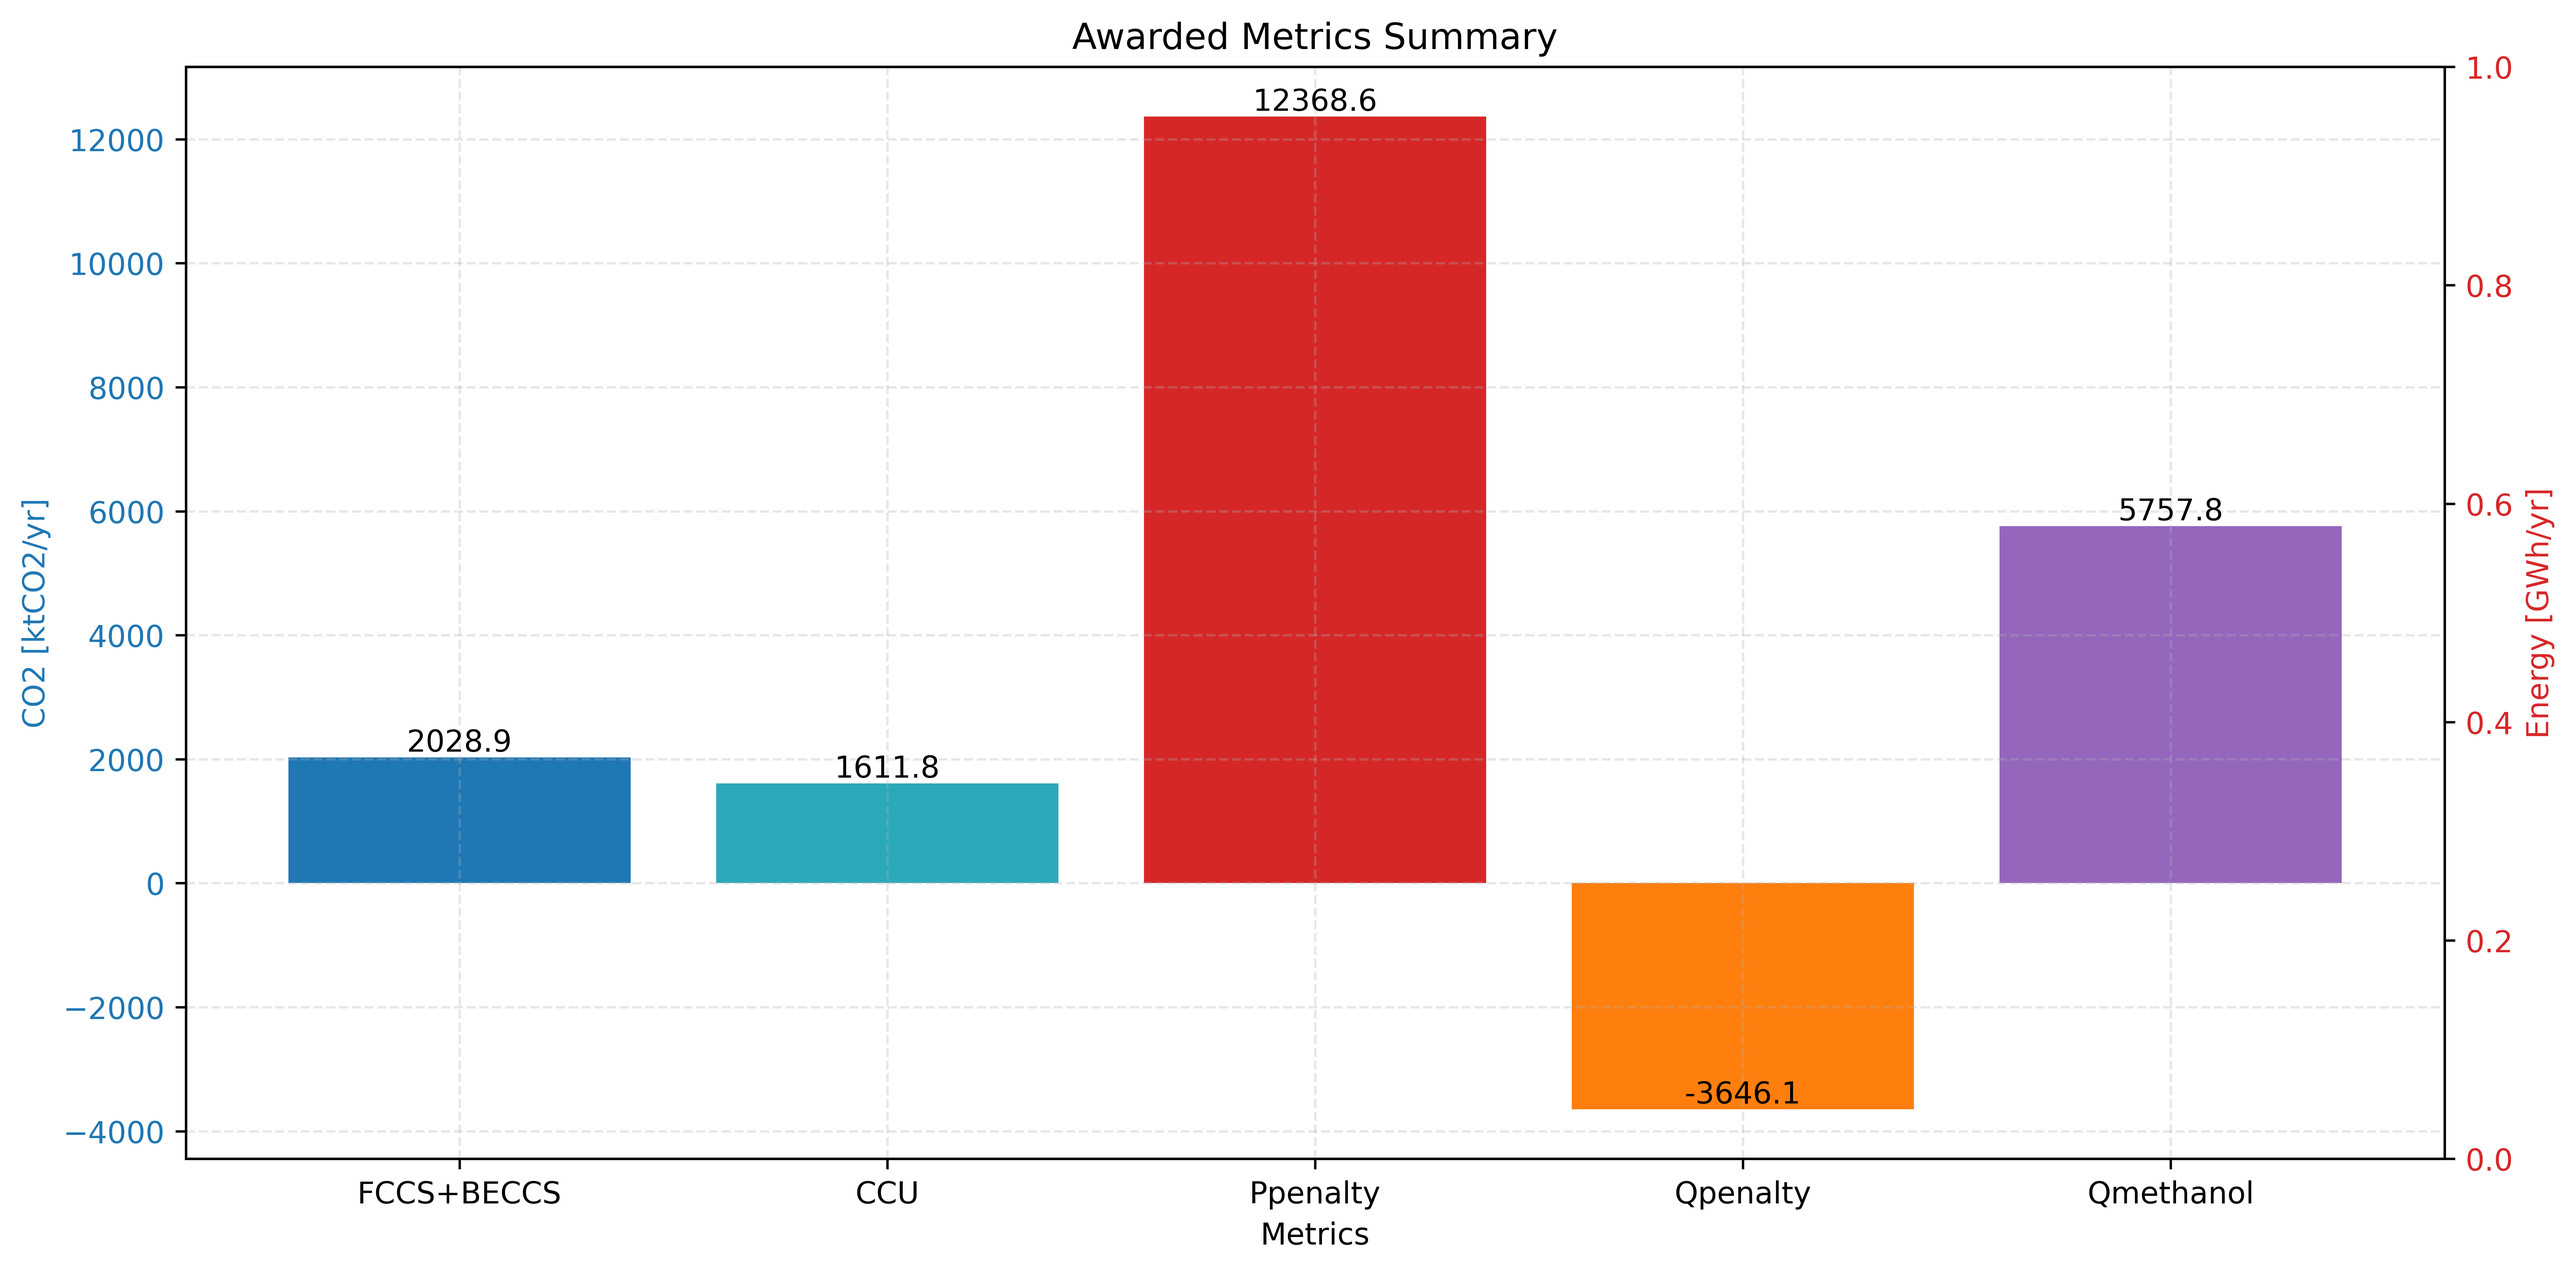
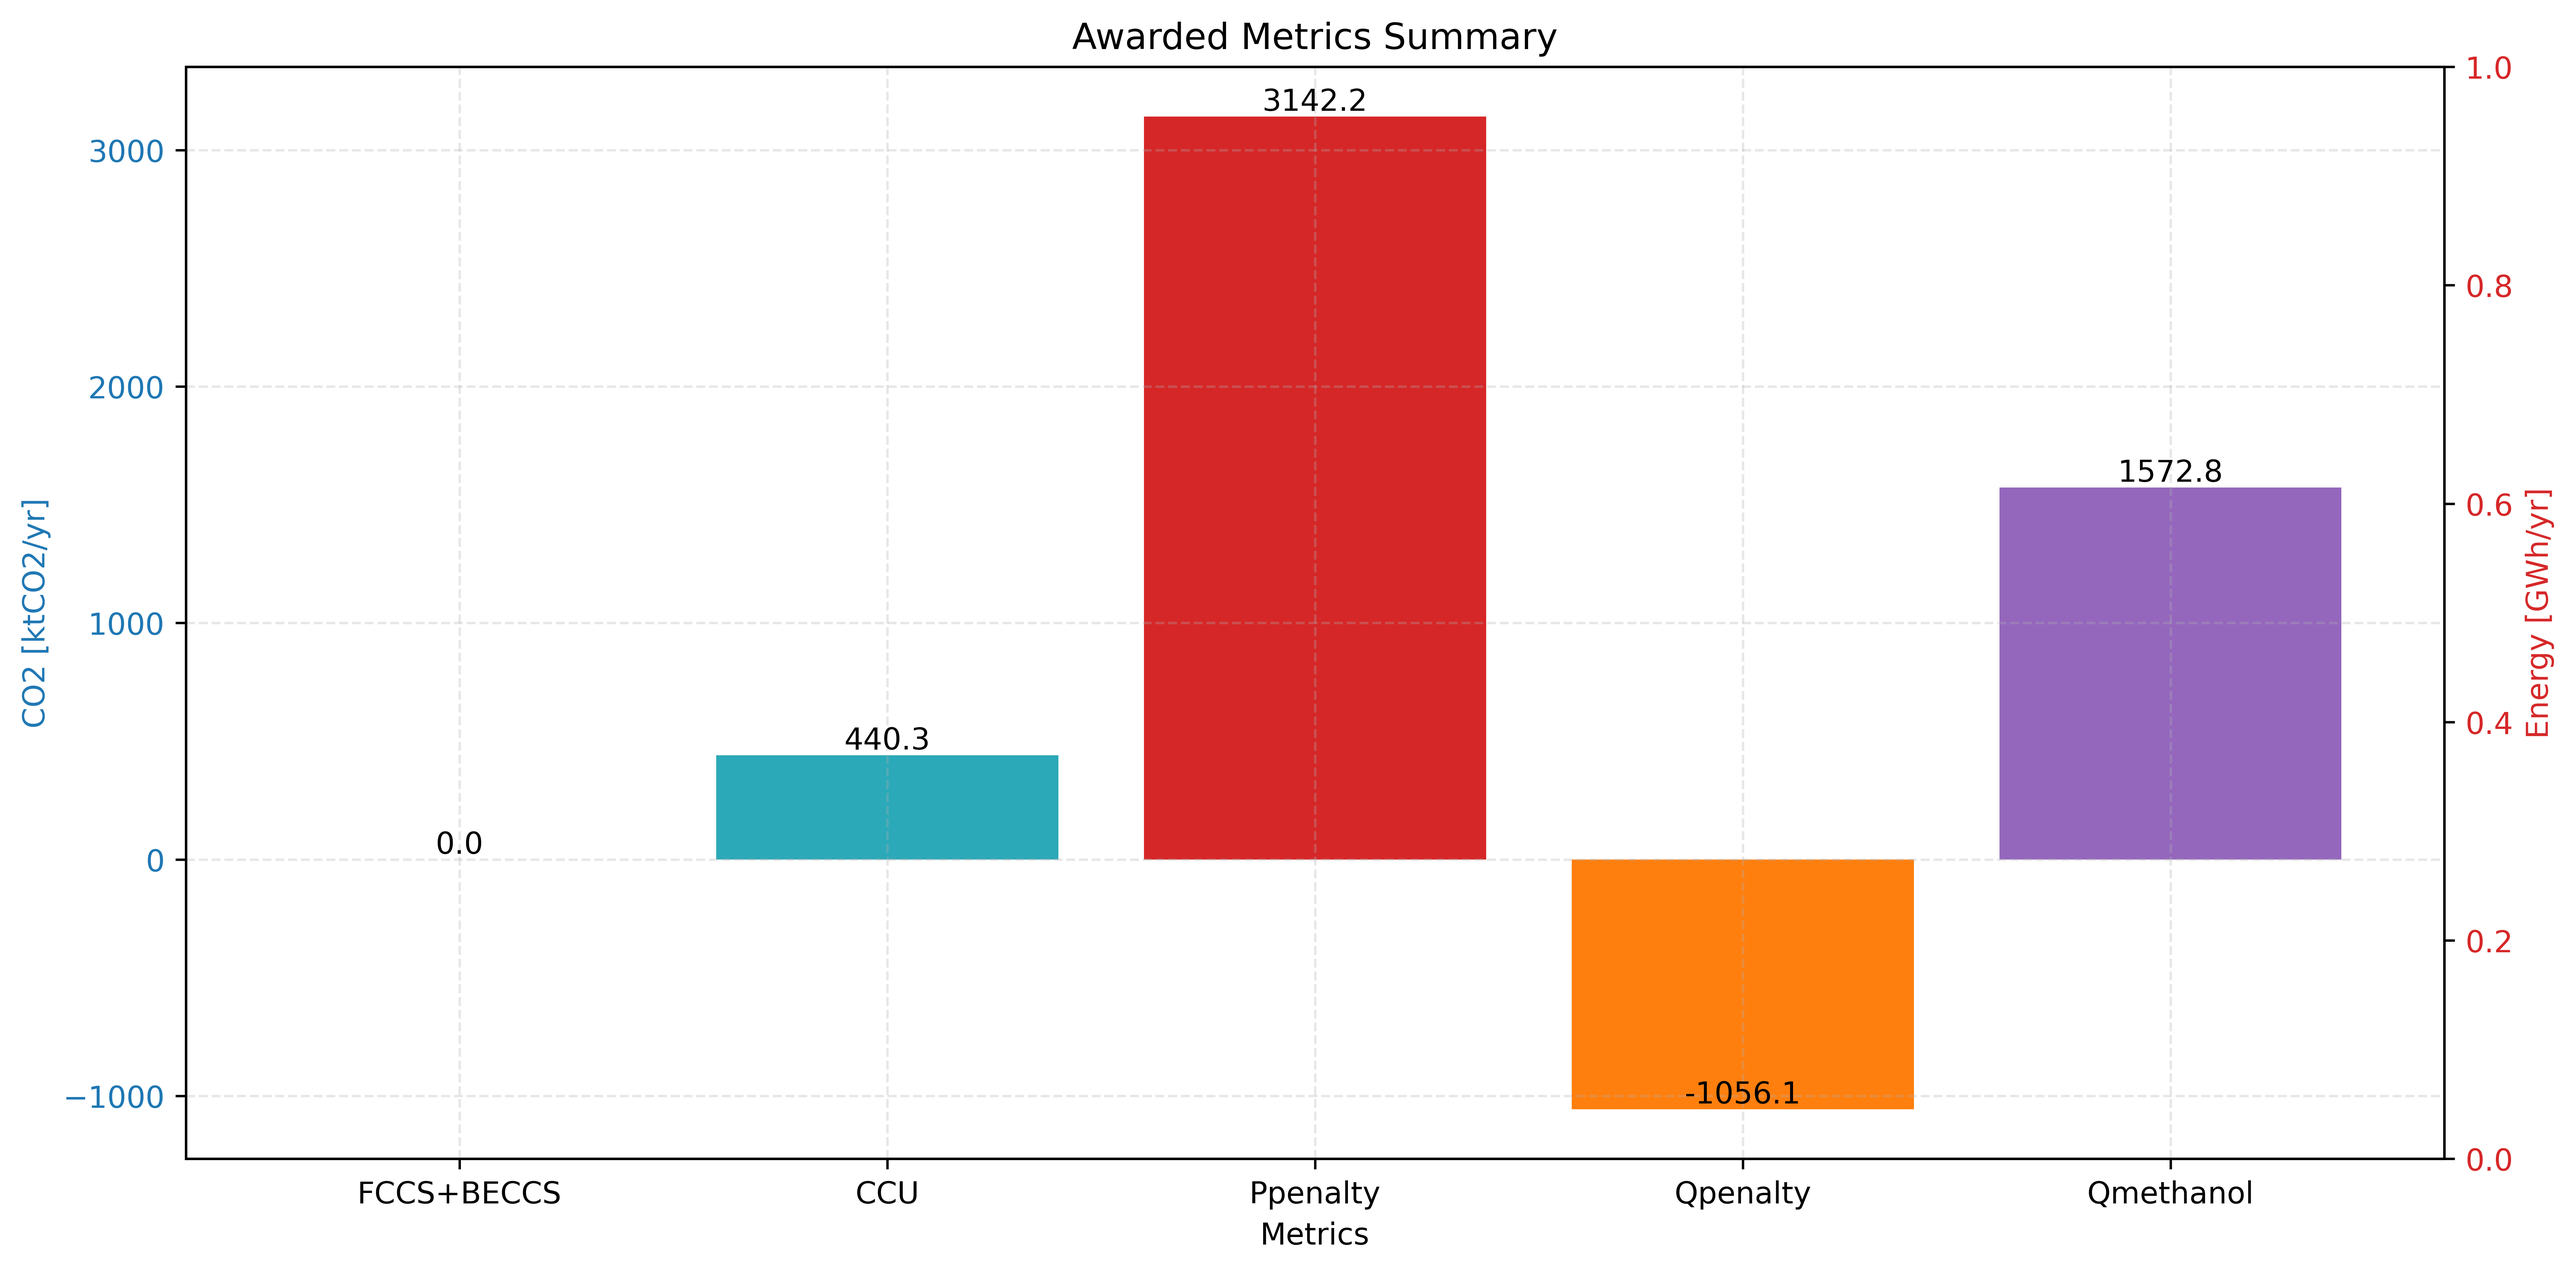
Received feedback from Judit - incorporate later

diff --git a/model.py b/model.py
@@ -596,6 +596,8 @@ def plan_CCU(plant, x, plot_single=False):
         etais=x["etais"],
         printing=False
     )
+    print(P_list)
+    print(T_list)
     Wcomp_CO2 = sum(Wcomp_list)  # [MW]
     cost_CO2, _ = compression_cost(Wcomp_list, 'CO2', printing=False)
     Qcool_CO2 = sum(Qcool_list)  # [MW]
@@ -624,6 +626,8 @@ def plan_CCU(plant, x, plot_single=False):
         etais=x["etais"],
         printing=False
     )
+    print(P_list)
+    print(T_list)
     Wcomp_H2 = sum(Wcomp_list)  # [MW]
     cost_H2, _ = compression_cost(Wcomp_list, 'H2', printing=False)
     Qcool_H2 = sum(Qcool_list)  # [MW]
@@ -645,6 +649,20 @@ def plan_CCU(plant, x, plot_single=False):
     Ppenalty = (plant["P"] - P) * x["FLH"] /1000          # [GWh/yr] probably very positive
     Qpenalty = (plant["Qdh"] - Qdh) * x["FLH"] /1000     # [GWh/yr] probably negative
     Qmethanol = Qmethanol * x["FLH"] /1000               # [GWh/yr] positive
+
+    KPI1 = Qmethanol/x["FLH"]*1000 / (plant["Qwaste"] + (-P)) # [MW/MW]
+    KPI2 = (Qmethanol/x["FLH"]*1000 + Qdh)/ (plant["Qwaste"] + (-P)) # [MW/MW]
+    KPI21 = 1 - ((plant["Qwaste"]+abs(P))-(Qdh+Qmethanol/x["FLH"]*1000)) / (plant["Qwaste"] + (-P)) # [MW/MW]
+    KPI3 = (-P) / ((plant["P"] * (1 - Qreb/plant["Qwaste"])) + (plant["Qdh"] * (1 - Qreb/plant["Qwaste"])) + (Qmethanol/x["FLH"]*1000)) # [MW/MW]
+    KPI4 = (-P) / (Qmethanol/x["FLH"]*1000)
+    KPI5 = ((plant["Qwaste"]+abs(P))-(Qdh+Qmethanol/x["FLH"]*1000)) / (Qmethanol/x["FLH"]*1000)
+
+    print(f"KPI1: {KPI1:.2f}")
+    print(f"KPI2: {KPI2:.2f}")
+    print(f"KPI2: {KPI21:.2f}")
+    print(f"KPI3: {KPI3:.2f}")
+    print(f"KPI4: {KPI4:.2f}")
+    print(f"KPI5: {KPI5:.2f}")
 
     # Estimate CAPEX and OPEX of all units
     CAPEX, levelized_CAPEX = estimate_CAPEX(mcaptured, x)  # [kEUR, EUR/tCO2] NOTE: Includes compression/liq CAPEX...
@@ -1172,7 +1190,8 @@ def WACCUS_EPR(
         CCU_names = ["Renova","SAKAB","Filbornaverket","Garstadverket","Sjolunda"]
         CCS_names = ["Handeloverket","Bristaverket","Vasteras KVV","Hogdalenverket","Bolanderna"]
     elif case == "CCU":
-        CCU_names = ["Renova","SAKAB","Filbornaverket","Garstadverket","Sjolunda","Handeloverket","Bristaverket","Vasteras KVV","Hogdalenverket","Bolanderna"]
+        # CCU_names = ["Renova","SAKAB","Filbornaverket","Garstadverket","Sjolunda","Handeloverket","Bristaverket","Vasteras KVV","Hogdalenverket","Bolanderna"]
+        CCU_names = ["Renova"]
         CCS_names = []
     elif case == "CCS":
         CCU_names = []
@@ -1322,7 +1341,7 @@ if __name__ == "__main__":
     output = WACCUS_EPR(
         plants=plants, 
         k=k, 
-        case="CCUS", 
+        case="CCU", 
         transport_costs=transport_costs,
         sea_distances=sea_distances,  # Pass pre-calculated distances dict
         thermo_props=thermo_props     # Pass thermodynamic properties
@@ -1335,5 +1354,18 @@ if __name__ == "__main__":
     print("Most CCU plants are near profitable already - consider adding higher electrolyzer costs etc., also no ETS incentive?")
     print("I should verify the methanol production - is it reasonable really?")
     print("Let's start with CCS cases and auctions then!")
+
+    print("--- Feedback from Johanna/Judit ---")
+    print("The KPIs are ish similar to those in Johanna's study. However, I am to optimistic about recovering waste heat.")
+    print("Compressors: These cannot increase to the Tsynthesis, they should be reduced to 40C ish in every stage")
+    print("-> However, I might neglect that issue. Otherwise, I must add a heater to re-heat the CO2 and H2 entering the synthesis")
+    print("The largest heat recovery units are: from the amine capture plant (reboiler), ALK electrolyzer, and the methanol synthesis.")
+    print("-> These deserve greater attention - mainly, I must verify that the heat temperatures are ok for DH applications")
+    print("-> Check how much heat the synthesis produces, it should be transferred to the destillation first, and THEN MAYBE some of this remaining heat is available for either the qreboiler (exciting option!) or for DH (but check temperatures)")
+    print("-> It is far from certain that you can recover this much heat from the destillation - its not necesarily true that 80percent of the energy in raw methanol becomes methanol and that 20percent to DH.")
+    print("----> Check with Johanna for sources on that, possibly? Also, we need a pure destillation (cannot do without) since we use it for plastic/chemicals")
+    print("-> It's uncertain how much heat can be recovered from electrolyzers - ask Tharun! He has the percentage and termperatures ... or maybe the MSc thesis")
+    print("Finally, double check the conversion from H2 to methanol in synthesis - can I do it as an energy conversion, 100prc H2 to 100prc methanol? Do it via reaciton formula and LHV values as well! Check!")
+    print("-> This is suspicious because one H2 should be lost (mass-wise) for each methanol molecule produced: CO2+3H2=>CH3OH+H2O")
     plt.show()
 
